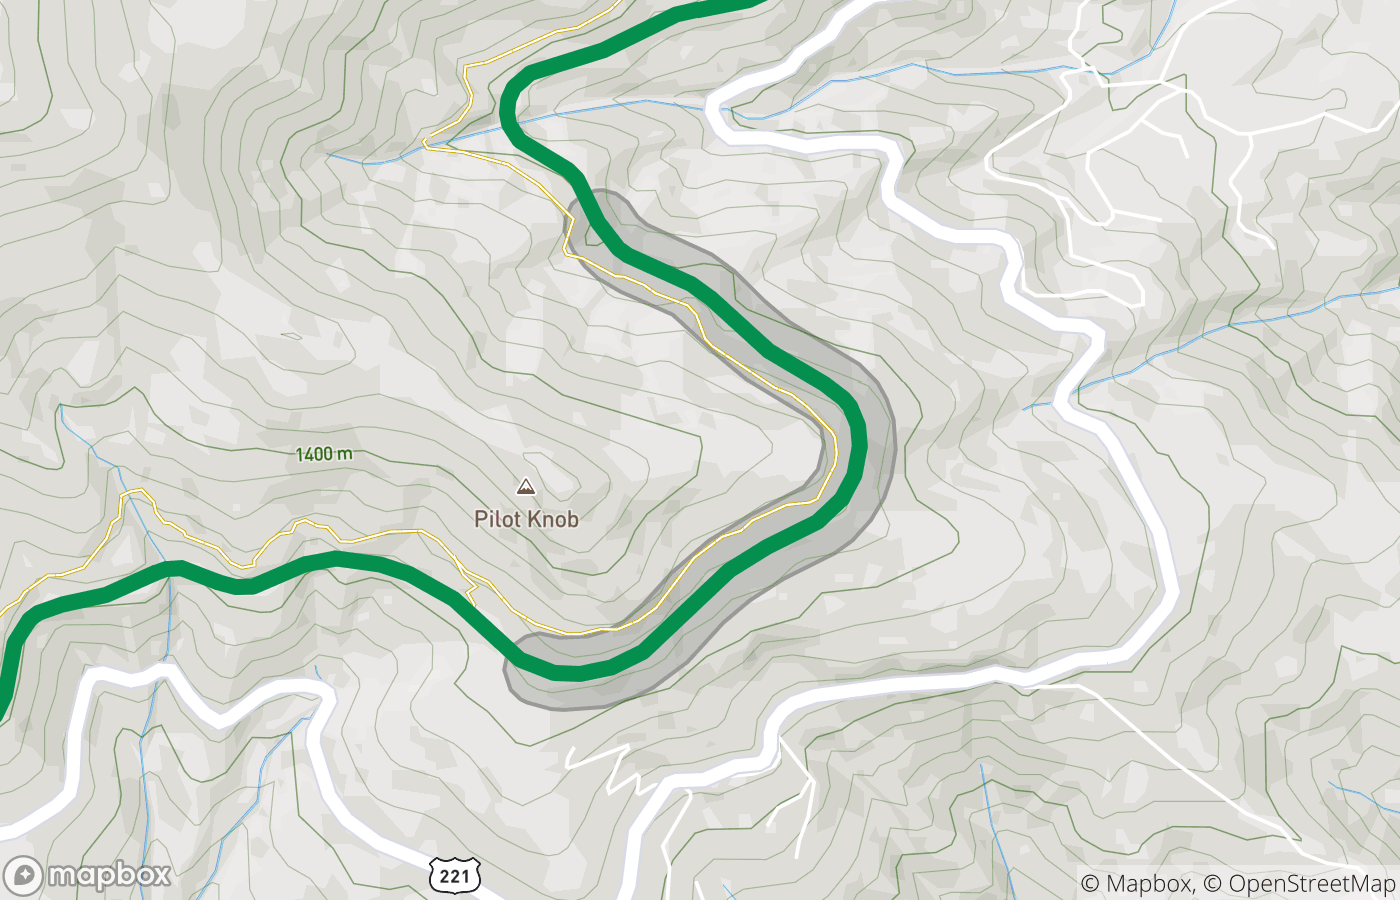
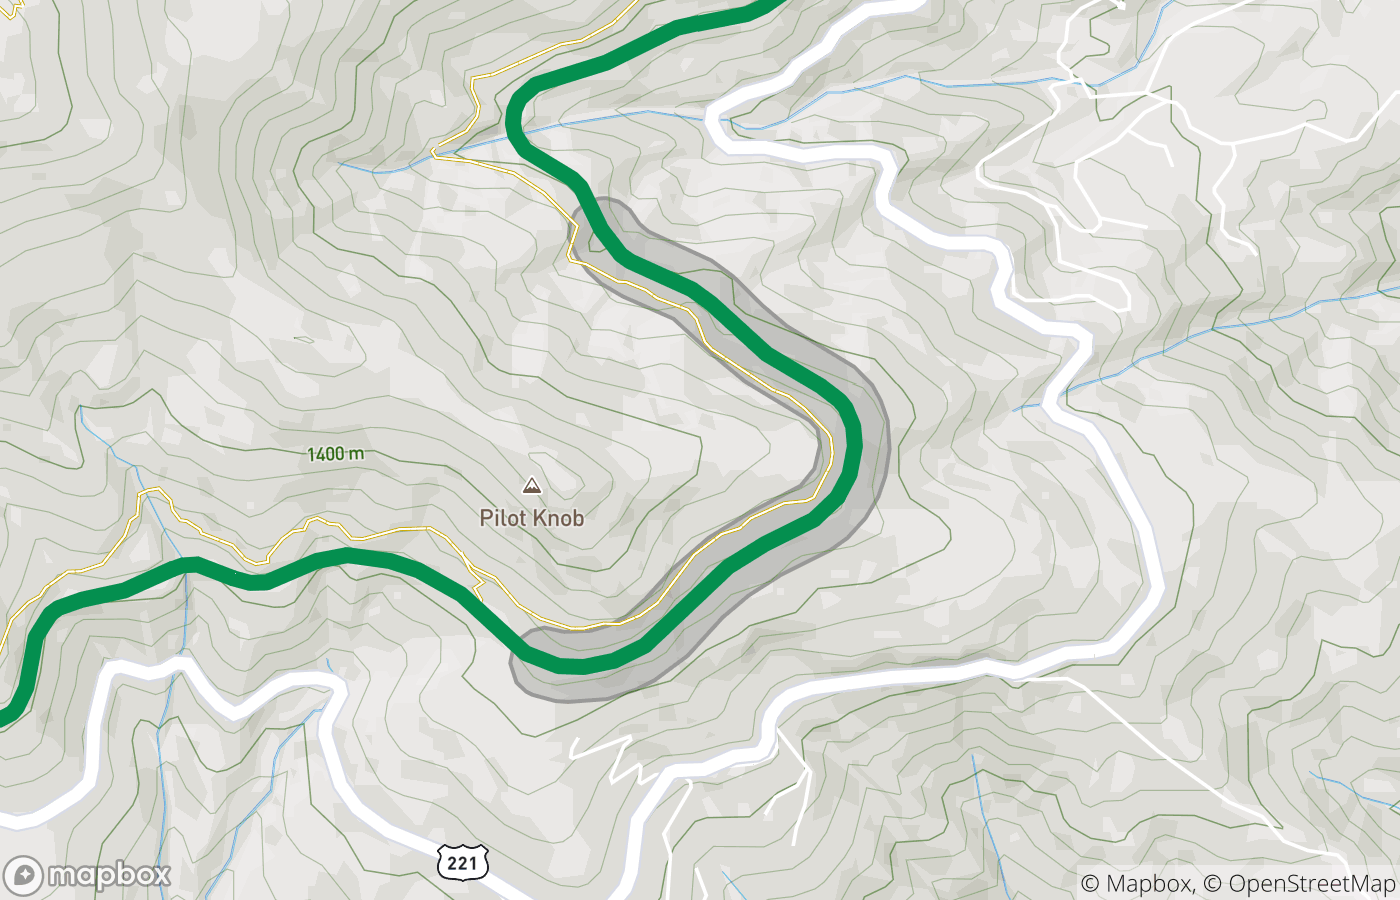
Add some maps

diff --git a/dist/scripts/generate_maps.js b/dist/scripts/generate_maps.js
@@ -9,15 +9,16 @@ const node_fetch_1 = __importDefault(require("node-fetch"));
 const buffer_1 = __importDefault(require("@turf/buffer"));
 const polygon_to_line_1 = require("@turf/polygon-to-line");
 const polyline_1 = __importDefault(require("@mapbox/polyline"));
+const constants_1 = require("../constants");
 const utils_1 = require("./utils");
 const access_token = 'pk.eyJ1IjoiamNzYW5mb3JkIiwiYSI6ImNrZG1kdnU5NzE3bG4yenBkbzU5bDQ2NXMifQ.IMquilPKSANQDaSzf3fjcg';
 const before_layer = 'contour-line';
-const padding = '99';
+const padding = '100';
 const mapId = 'jcsanford/ckrm3rsr78uiq17q31yhwzul2';
 const dimensions = '700x450';
 const params = { padding, before_layer, access_token };
 const tasks = [];
-for (let mile = 201; mile <= 300; mile++) {
+for (let mile = 400; mile <= constants_1.DISTANCE_MILES; mile++) {
     tasks.push((cb) => {
         setTimeout(async () => {
             console.log(`Processing mile ${mile}`);

diff --git a/src/scripts/generate_maps.ts b/src/scripts/generate_maps.ts
@@ -12,14 +12,14 @@ type CB = (error: Error | null, results: any) => void;
 
 const access_token = 'pk.eyJ1IjoiamNzYW5mb3JkIiwiYSI6ImNrZG1kdnU5NzE3bG4yenBkbzU5bDQ2NXMifQ.IMquilPKSANQDaSzf3fjcg';
 const before_layer = 'contour-line';
-const padding = '99';
+const padding = '100';
 const mapId = 'jcsanford/ckrm3rsr78uiq17q31yhwzul2';
 const dimensions = '700x450';
 const params = { padding, before_layer, access_token };
 
 const tasks = [];
 
-for (let mile = 201; mile <= 300; mile++) {
+for (let mile = 400; mile <= DISTANCE_MILES; mile++) {
   tasks.push((cb: CB) => {
     setTimeout(async () => {
       console.log(`Processing mile ${mile}`);
